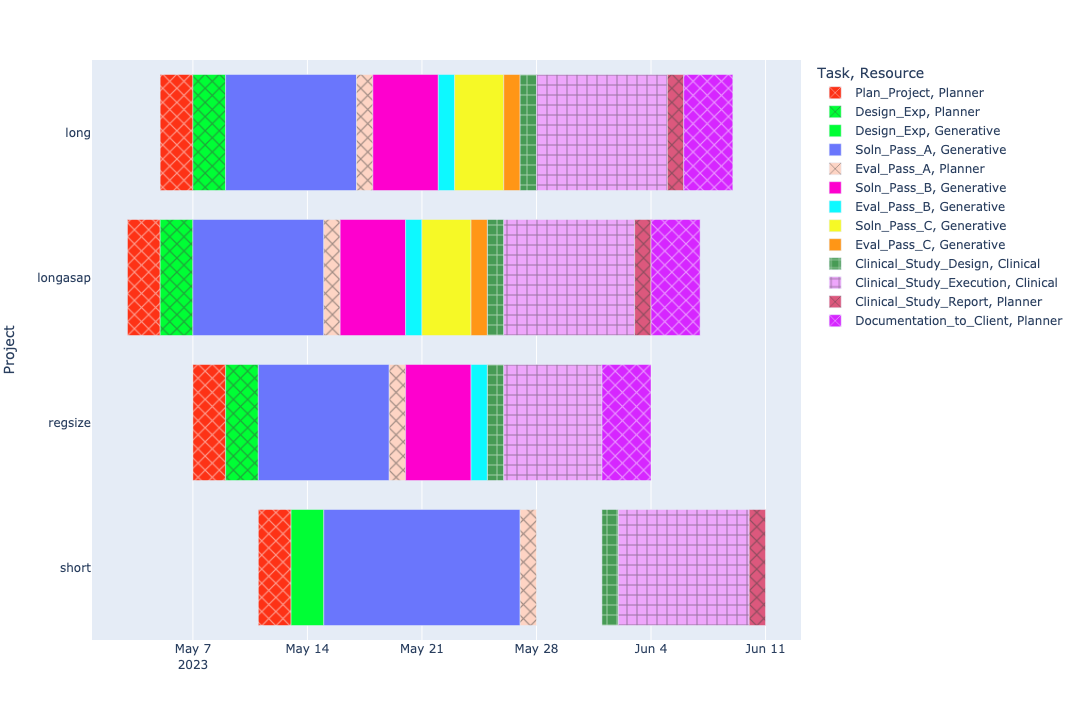
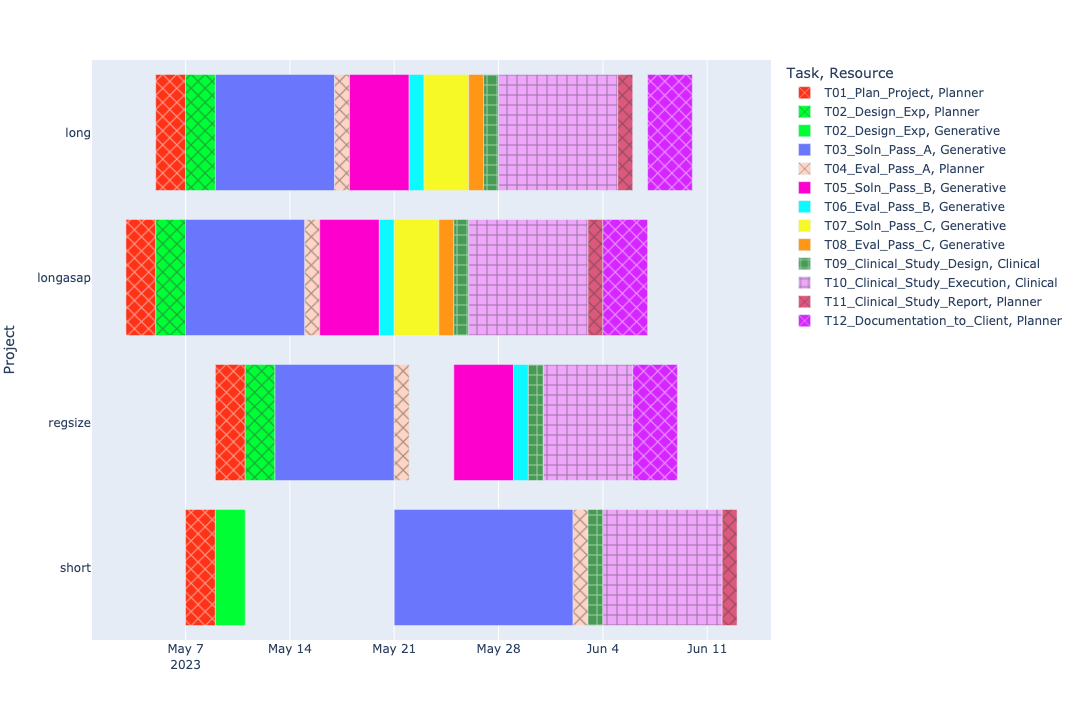
change proj attributes

diff --git a/scheduling/one_period_model.py b/scheduling/one_period_model.py
@@ -21,7 +21,7 @@ class Model(object):
     def __init__(self, name: str) -> None:
         self.name = name
         self.model = cp_model.CpModel()
-        self.report_file = "scheduling/{}_report.md".format(name)
+        self.report_file = "examples/schedV1/{}_report.md".format(name)
 
     def get_inputs(self, model_input_file: str, date0_str: str):
         rpu_image_file = "{}_resource_prior_utilization.png".format(self.name)
@@ -40,7 +40,7 @@ class Model(object):
             model_input, 
             self.datetime_0, 
             self.init_t_max, 
-            plotfile="scheduling/"+rpu_image_file,
+            plotfile="examples/schedV1/"+rpu_image_file,
             show_utilization_plot=False
             )
         self.task_resource_options = read_task_input(model_input['resources'])
@@ -175,7 +175,7 @@ class Model(object):
                 color_discrete_sequence=px.colors.qualitative.Light24
             )
             fig.update_yaxes(categoryorder="category descending")
-            pio.write_image(fig, "scheduling/{}_timetable.png".format(self.name), width=1080, height=720)
+            pio.write_image(fig, "examples/schedV1/{}_timetable.png".format(self.name), width=1080, height=720)
 
             out += '\t- Optimal Objective Value: {:,.3f}\n'.format(self.solver.ObjectiveValue())
             out += '\t- Optimal Objective Bound: {:,.3f}\n'.format(self.solver.BestObjectiveBound())
@@ -221,7 +221,7 @@ class Model(object):
     
     def report_results(self):
         repfile = open(self.report_file, "a")
-        print("# Optimization Results", file=repfile)
+        print("\n# Optimization Results", file=repfile)
         print(self.collect_results() , file=repfile)
         print(self.project_report() , file=repfile)
         print("## Optimal Timetable" , file=repfile)
@@ -230,7 +230,7 @@ class Model(object):
         print("## Optimal Resource Utilization" , file=repfile)
         utilization_file = "{}_utilization.png".format(self.name)
         fig = self.resource_report()
-        fig.savefig("scheduling/{}".format(utilization_file), dpi=72)
+        fig.savefig("examples/schedV1/{}".format(utilization_file), dpi=72)
         print("![Utilization]({})\n\n\n".format(utilization_file) , file=repfile)
         repfile.close()
 

diff --git a/examples/schedV2/one_period_v2_example_report.md b/examples/schedV2/one_period_v2_example_report.md
@@ -7,64 +7,64 @@
 |:----------|-----------:|----------------:|--------------:|
 | longasap  |         33 |               4 |           1   |
 | long      |         40 |               3 |           1   |
-| regsize   |         45 |               2 |           0.5 |
-| short     |         50 |               2 |           0.1 |
+| regsize   |         38 |               2 |           0.5 |
+| short     |         42 |               1 |           0.1 |
 
 ### Project Requirements
 
-| Project   | Task                     | Resource   |   Duration |   Units |
-|:----------|:-------------------------|:-----------|-----------:|--------:|
-| longasap  | Plan_Project             | Planner    |          2 |       1 |
-| longasap  | Design_Exp               | Generative |          2 |       2 |
-| longasap  | Design_Exp               | Planner    |          2 |       1 |
-| longasap  | Soln_Pass_A              | Generative |          8 |       1 |
-| longasap  | Eval_Pass_A              | Generative |          1 |       2 |
-| longasap  | Eval_Pass_A              | Planner    |          1 |       1 |
-| longasap  | Soln_Pass_B              | Generative |          4 |       1 |
-| longasap  | Eval_Pass_B              | Generative |          1 |       1 |
-| longasap  | Soln_Pass_C              | Generative |          3 |       1 |
-| longasap  | Eval_Pass_C              | Generative |          1 |       1 |
-| longasap  | Clinical_Study_Design    | Clinical   |          1 |       1 |
-| longasap  | Clinical_Study_Execution | Clinical   |          8 |       1 |
-| longasap  | Clinical_Study_Report    | Clinical   |          1 |       2 |
-| longasap  | Clinical_Study_Report    | Planner    |          1 |       1 |
-| longasap  | Documentation_to_Client  | Planner    |          3 |       1 |
-| long      | Plan_Project             | Planner    |          2 |       1 |
-| long      | Design_Exp               | Generative |          2 |       2 |
-| long      | Design_Exp               | Planner    |          2 |       1 |
-| long      | Soln_Pass_A              | Generative |          8 |       1 |
-| long      | Eval_Pass_A              | Generative |          1 |       2 |
-| long      | Eval_Pass_A              | Planner    |          1 |       1 |
-| long      | Soln_Pass_B              | Generative |          4 |       1 |
-| long      | Eval_Pass_B              | Generative |          1 |       1 |
-| long      | Soln_Pass_C              | Generative |          3 |       1 |
-| long      | Eval_Pass_C              | Generative |          1 |       1 |
-| long      | Clinical_Study_Design    | Clinical   |          1 |       1 |
-| long      | Clinical_Study_Execution | Clinical   |          8 |       1 |
-| long      | Clinical_Study_Report    | Clinical   |          1 |       2 |
-| long      | Clinical_Study_Report    | Planner    |          1 |       1 |
-| long      | Documentation_to_Client  | Planner    |          3 |       1 |
-| regsize   | Plan_Project             | Planner    |          2 |       1 |
-| regsize   | Design_Exp               | Generative |          2 |       2 |
-| regsize   | Design_Exp               | Planner    |          2 |       1 |
-| regsize   | Soln_Pass_A              | Generative |          8 |       1 |
-| regsize   | Eval_Pass_A              | Generative |          1 |       2 |
-| regsize   | Eval_Pass_A              | Planner    |          1 |       1 |
-| regsize   | Soln_Pass_B              | Generative |          4 |       1 |
-| regsize   | Eval_Pass_B              | Generative |          1 |       1 |
-| regsize   | Clinical_Study_Design    | Clinical   |          1 |       1 |
-| regsize   | Clinical_Study_Execution | Clinical   |          6 |       1 |
-| regsize   | Documentation_to_Client  | Planner    |          3 |       1 |
-| short     | Plan_Project             | Planner    |          2 |       1 |
-| short     | Design_Exp               | Generative |          2 |       1 |
-| short     | Design_Exp               | Planner    |          2 |       1 |
-| short     | Soln_Pass_A              | Generative |         12 |       1 |
-| short     | Eval_Pass_A              | Generative |          1 |       2 |
-| short     | Eval_Pass_A              | Planner    |          1 |       1 |
-| short     | Clinical_Study_Design    | Clinical   |          1 |       1 |
-| short     | Clinical_Study_Execution | Clinical   |          8 |       1 |
-| short     | Clinical_Study_Report    | Clinical   |          1 |       2 |
-| short     | Clinical_Study_Report    | Planner    |          1 |       1 |
+| Project   | Task                         | Resource   |   Duration |   Units |
+|:----------|:-----------------------------|:-----------|-----------:|--------:|
+| longasap  | T01_Plan_Project             | Planner    |          2 |       1 |
+| longasap  | T02_Design_Exp               | Generative |          2 |       2 |
+| longasap  | T02_Design_Exp               | Planner    |          2 |       1 |
+| longasap  | T03_Soln_Pass_A              | Generative |          8 |       1 |
+| longasap  | T04_Eval_Pass_A              | Generative |          1 |       2 |
+| longasap  | T04_Eval_Pass_A              | Planner    |          1 |       1 |
+| longasap  | T05_Soln_Pass_B              | Generative |          4 |       1 |
+| longasap  | T06_Eval_Pass_B              | Generative |          1 |       1 |
+| longasap  | T07_Soln_Pass_C              | Generative |          3 |       1 |
+| longasap  | T08_Eval_Pass_C              | Generative |          1 |       1 |
+| longasap  | T09_Clinical_Study_Design    | Clinical   |          1 |       1 |
+| longasap  | T10_Clinical_Study_Execution | Clinical   |          8 |       1 |
+| longasap  | T11_Clinical_Study_Report    | Clinical   |          1 |       2 |
+| longasap  | T11_Clinical_Study_Report    | Planner    |          1 |       1 |
+| longasap  | T12_Documentation_to_Client  | Planner    |          3 |       1 |
+| long      | T01_Plan_Project             | Planner    |          2 |       1 |
+| long      | T02_Design_Exp               | Generative |          2 |       2 |
+| long      | T02_Design_Exp               | Planner    |          2 |       1 |
+| long      | T03_Soln_Pass_A              | Generative |          8 |       1 |
+| long      | T04_Eval_Pass_A              | Generative |          1 |       2 |
+| long      | T04_Eval_Pass_A              | Planner    |          1 |       1 |
+| long      | T05_Soln_Pass_B              | Generative |          4 |       1 |
+| long      | T06_Eval_Pass_B              | Generative |          1 |       1 |
+| long      | T07_Soln_Pass_C              | Generative |          3 |       1 |
+| long      | T08_Eval_Pass_C              | Generative |          1 |       1 |
+| long      | T09_Clinical_Study_Design    | Clinical   |          1 |       1 |
+| long      | T10_Clinical_Study_Execution | Clinical   |          8 |       1 |
+| long      | T11_Clinical_Study_Report    | Clinical   |          1 |       2 |
+| long      | T11_Clinical_Study_Report    | Planner    |          1 |       1 |
+| long      | T12_Documentation_to_Client  | Planner    |          3 |       1 |
+| regsize   | T01_Plan_Project             | Planner    |          2 |       1 |
+| regsize   | T02_Design_Exp               | Generative |          2 |       2 |
+| regsize   | T02_Design_Exp               | Planner    |          2 |       1 |
+| regsize   | T03_Soln_Pass_A              | Generative |          8 |       3 |
+| regsize   | T04_Eval_Pass_A              | Generative |          1 |       2 |
+| regsize   | T04_Eval_Pass_A              | Planner    |          1 |       1 |
+| regsize   | T05_Soln_Pass_B              | Generative |          4 |       3 |
+| regsize   | T06_Eval_Pass_B              | Generative |          1 |       1 |
+| regsize   | T09_Clinical_Study_Design    | Clinical   |          1 |       1 |
+| regsize   | T10_Clinical_Study_Execution | Clinical   |          6 |       1 |
+| regsize   | T12_Documentation_to_Client  | Planner    |          3 |       1 |
+| short     | T01_Plan_Project             | Planner    |          2 |       1 |
+| short     | T02_Design_Exp               | Generative |          2 |       1 |
+| short     | T02_Design_Exp               | Planner    |          2 |       1 |
+| short     | T03_Soln_Pass_A              | Generative |         12 |       1 |
+| short     | T04_Eval_Pass_A              | Generative |          1 |       2 |
+| short     | T04_Eval_Pass_A              | Planner    |          1 |       1 |
+| short     | T09_Clinical_Study_Design    | Clinical   |          1 |       1 |
+| short     | T10_Clinical_Study_Execution | Clinical   |          8 |       1 |
+| short     | T11_Clinical_Study_Report    | Clinical   |          1 |       2 |
+| short     | T11_Clinical_Study_Report    | Planner    |          1 |       1 |
 
 ### Resource Attributes
 
@@ -79,8 +79,8 @@
 
 
 - Solution Status: OPTIMAL
-	- Optimal Objective Value: 99,908.600
-	- Optimal Objective Bound: 99,908.600
+	- Optimal Objective Value: 116,719.000
+	- Optimal Objective Bound: 116,719.000
 
 
 
@@ -89,9 +89,9 @@
 | Project    | Completion |  Early |  Tardy |
 | :------    | ---------: |  ----: |  ----: |
 | longasap   |         37 |      0 |      4 |
-| long       |         39 |      1 |      0 |
-| regsize    |         34 |     11 |      0 |
-| short      |         41 |      9 |      0 |
+| long       |         40 |      0 |      0 |
+| regsize    |         39 |      0 |      1 |
+| short      |         43 |      0 |      1 |
 
 
 

diff --git a/examples/schedV1/scheduling_RD_report.md b/examples/schedV1/scheduling_RD_report.md
@@ -36,6 +36,7 @@
 
 ### Resource Utilization At Time 0
 ![Resource Prior Utilization](scheduling_RD_resource_prior_utilization.png)
+
 # Optimization Results
 
 
